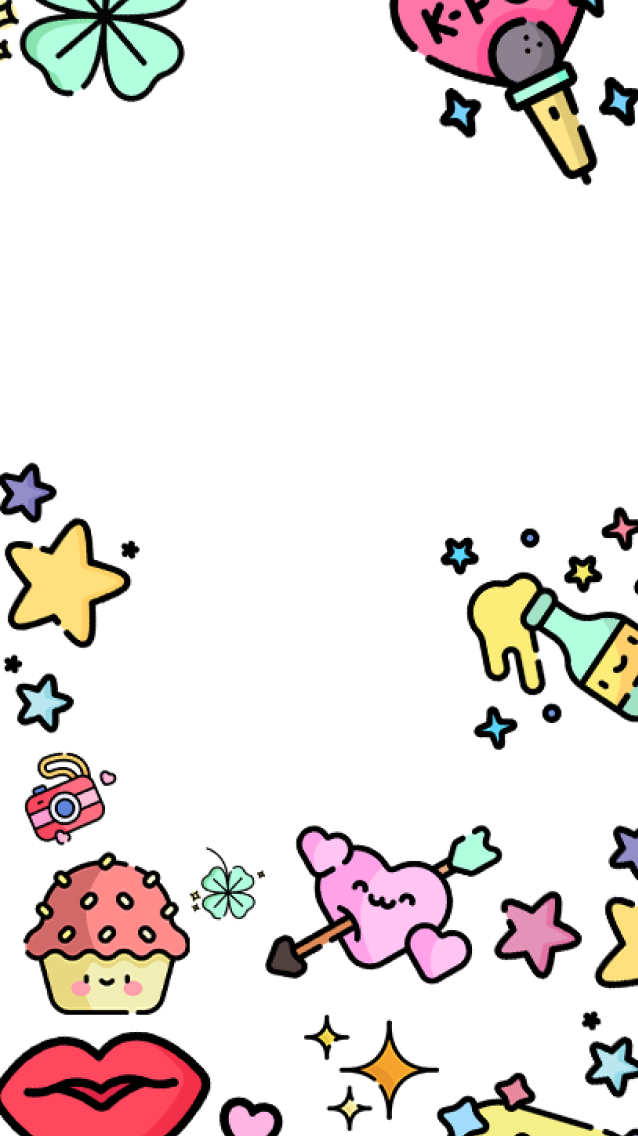
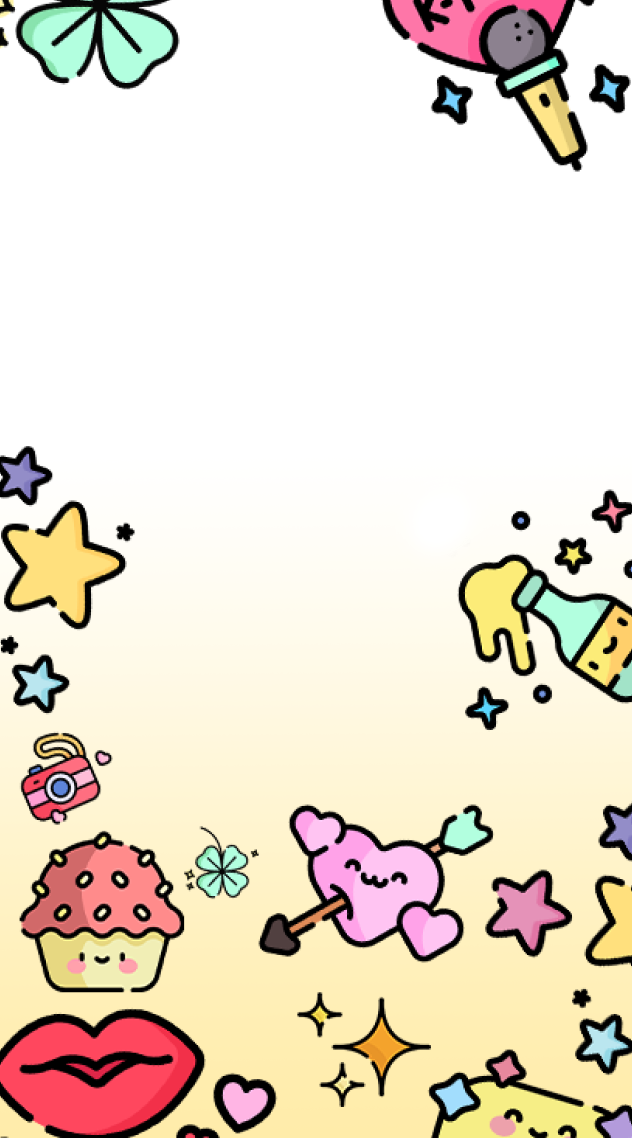
linear gradiant sur sign-in et sign-up +  restructuration des balises jsx sur sign-up

diff --git a/Front/src/screen/Register.js b/Front/src/screen/Register.js
@@ -42,9 +42,6 @@ const Register = () => {
     }
 
     const styles = StyleSheet.create({
-        background: {
-            backgroundColor: '#C5AAFF'
-        },
         container: {
             marginTop: 40,
         },
@@ -85,11 +82,14 @@ const Register = () => {
     });
 
     return (
-        <View style={styles.background}>
-            <SafeAreaView>
+        // <View style={styles.background}>
                 <ImageBackground
-                source={require('../asset/connexion.png')} 
-                style={{width: '100%', height: '100%'}}
+                source={require('../assets/connexion.png')} 
+                resizeMode="cover"
+                style={{width: '100%',
+                        height: '100%',
+                        backgroundColor: '#C5AAFF'
+                    }}
                 >
                 <Text style={styles.title} >Sign Up</Text>
                 <View style={styles.container}>
@@ -129,9 +129,7 @@ const Register = () => {
                     <Text style={{color: 'white'}}>Submit</Text>
                 </TouchableOpacity>
             </ImageBackground>
-
-            </SafeAreaView>
-        </View>
+        // </View>
 
     );
 

diff --git a/Front/src/screen/Login.js b/Front/src/screen/Login.js
@@ -72,22 +72,16 @@ export default function Login({ navigation }) {
 	}
 
 	return (
-
-
-
-		  
+  
 		<ImageBackground
 			source={require("../assets/connexion.png")}
 			resizeMode="cover"
-			style={{ width: '100%', height: '100%', 
-					backgroundColor: '#C5AAFF' ,
-					
-				
-
-				}}
+			style={{ 
+				width: '100%', 
+				height: '100%', 
+				backgroundColor: '#C5AAFF',
+			}}
 		>
-
-
 
 			<View style={styles.container}>
 				
